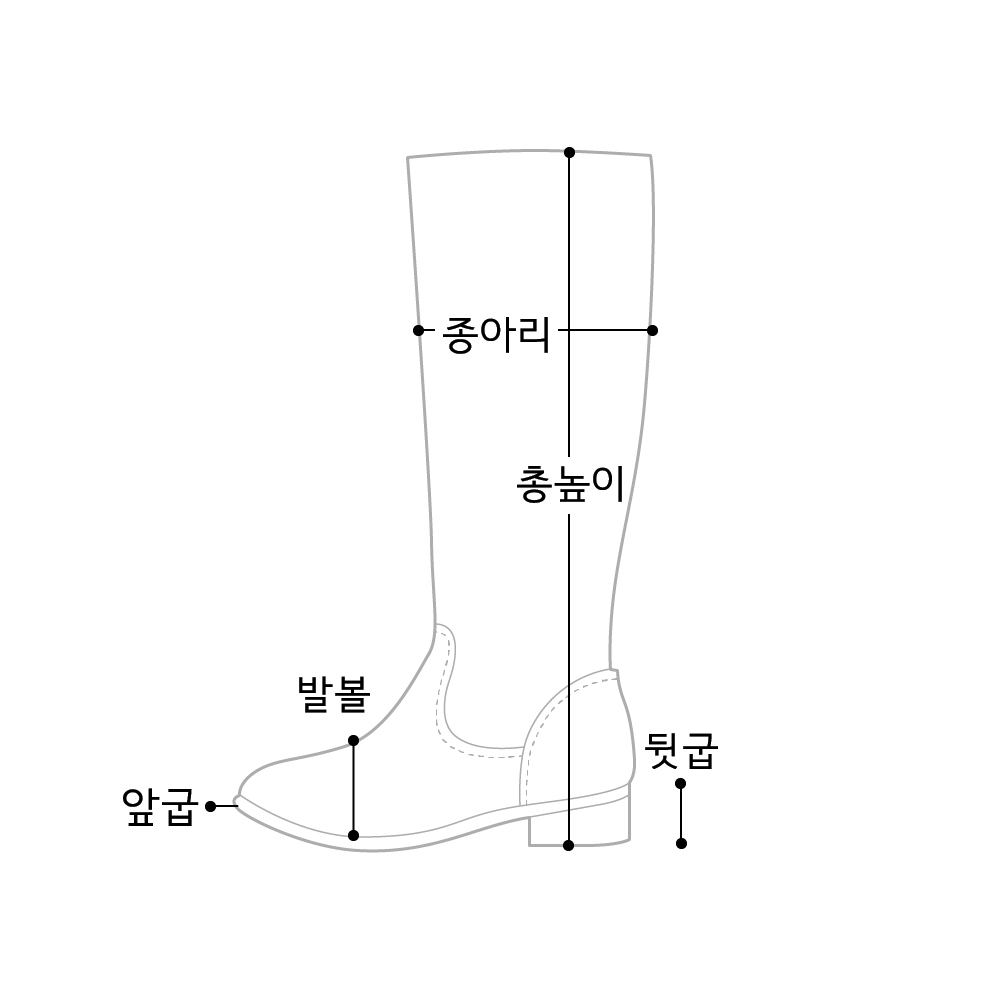
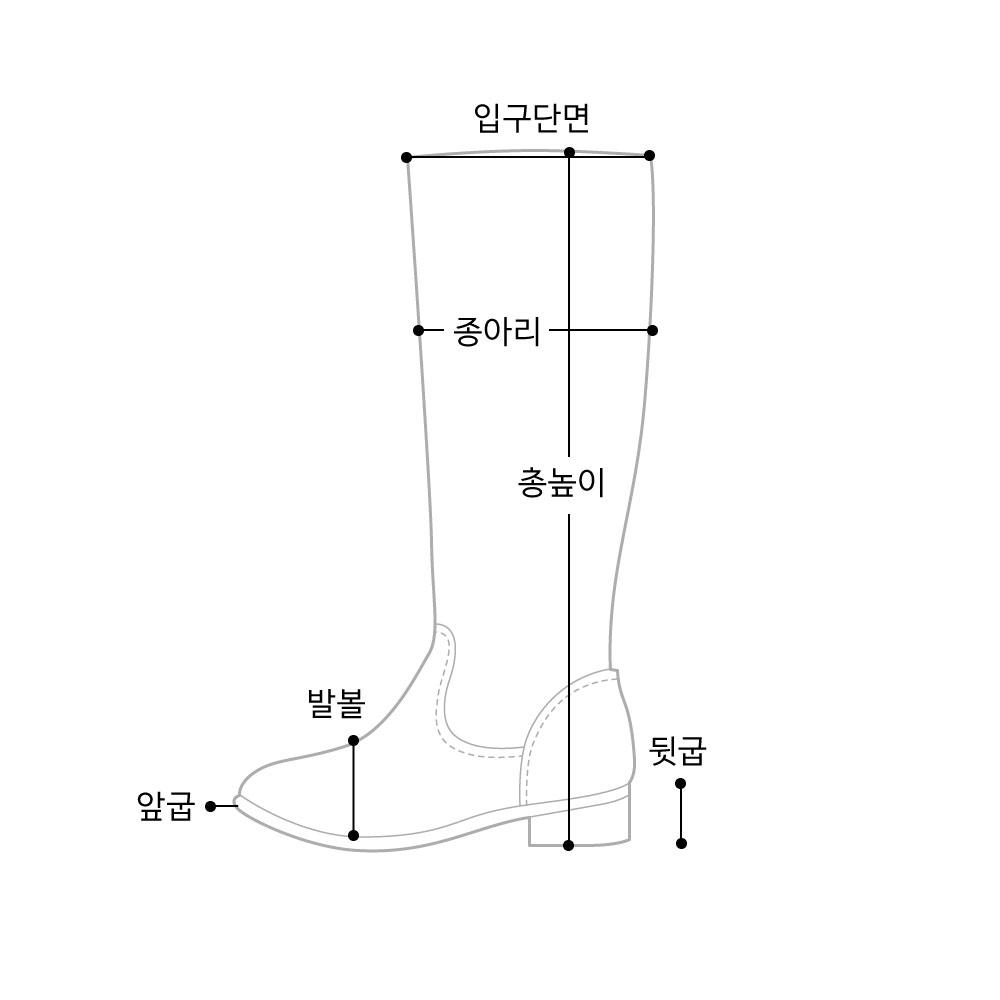
실측표 수정

diff --git a/wholesaler-partner/lib/app/modules/add_product/part2_image_sizetable_options/view/part2_image_sizetable_options_view.dart b/wholesaler-partner/lib/app/modules/add_product/part2_image_sizetable_options/view/part2_image_sizetable_options_view.dart
@@ -1,6 +1,7 @@
 import 'dart:developer';
 
 import 'package:flutter/material.dart';
+import 'package:flutter/services.dart';
 import 'package:get/get.dart';
 import 'package:wholesaler_partner/app/constant/enums.dart';
 import 'package:wholesaler_partner/app/models/add_product/option.dart';
@@ -32,6 +33,24 @@ class AP_Part2View extends GetView<AP_Part2Controller> {
             SizedBox(height: 5),
             // cloth pictures
             _clothPicture(),
+
+//여기에 바지 스커트 특정
+            ClothCategory.PANTS == addProductCtr.category.value.title
+                ? Center(
+                    child: Text(
+                      '*밴딩팬츠의 경우 허리단면 최소-최대로 표기 (ex. 40-60)',
+                      style: MyTextStyles.f11,
+                    ),
+                  )
+                : SizedBox.shrink(),
+
+            ClothCategory.SKIRTS == addProductCtr.category.value.title
+                ? Center(
+                    child: Text(
+                    '*밴딩스커트의 경우 허리단면 최소-최대로 표기 (ex. 40-60)',
+                    style: MyTextStyles.f11,
+                  ))
+                : SizedBox.shrink(),
             _sizeTable(context),
             // 옵션 단가등록
             //_unitPriceCheckbox(),
@@ -246,7 +265,7 @@ class AP_Part2View extends GetView<AP_Part2Controller> {
                       height: 20,
                       width: 20,
                       child: Center(
-                        child: Text('SIZE'),
+                        child: Text('Size'),
                       ),
                     ),
                   ),
@@ -750,9 +769,29 @@ class AP_Part2View extends GetView<AP_Part2Controller> {
               Expanded(
                 child: Container(
                   child: TextField(
+                      onChanged: (value) {
+                        if (value.length > 1 && value.substring(0, 1) == '0') {
+                          print(value.substring(1, value.length));
+                          addProductCtr
+                              .optionsControllers[currentOptionLength - 1]
+                              .text = value.substring(1, value.length);
+                          addProductCtr
+                                  .optionsControllers[currentOptionLength - 1]
+                                  .selection =
+                              TextSelection.fromPosition(TextPosition(
+                                  offset: addProductCtr
+                                      .optionsControllers[
+                                          currentOptionLength - 1]
+                                      .text
+                                      .length));
+                        }
+                      },
                       controller: addProductCtr
                           .optionsControllers[currentOptionLength - 1],
                       keyboardType: TextInputType.number,
+                      // inputFormatters: [
+                      //   FilteringTextInputFormatter.deny(RegExp(r'^0+')),
+                      // ],
                       decoration: InputDecoration(
                           fillColor: MyColors.white,
                           filled: true,

diff --git a/wholesaler-partner/lib/app/modules/add_product/view/widget/add_tag.dart b/wholesaler-partner/lib/app/modules/add_product/view/widget/add_tag.dart
@@ -1,5 +1,6 @@
 import 'package:flutter/material.dart';
 import 'package:get/get.dart';
+import 'package:wholesaler_user/app/widgets/snackbar.dart';
 
 class AddTagField extends StatelessWidget {
   final String? hintText;
@@ -34,6 +35,15 @@ class AddTagField extends StatelessWidget {
                         horizontal: 8.0, vertical: 0.0)),
                 controller: fieldController,
                 onSubmitted: (value) {
+                  for (int k = 0; k < tagList.length; k++) {
+                    if (value == tagList[k]) {
+                      mSnackbar(message: '같은 소재는 입력이 불가능합니다.');
+                      fieldController.clear();
+
+                      return;
+                    }
+                  }
+
                   tagList.add(value);
                   percentList == null
                       ? null
@@ -42,9 +52,10 @@ class AddTagField extends StatelessWidget {
 
                   materialPercentCheck!.value = 0;
                   for (int k = 0; k < percentList!.length; k++) {
-                    materialPercentCheck!.value +=
-                        int.parse(percentList![k].text);
-                    // print(ctr.materialTypePercentControllers[k].text);
+                    if (percentList![k].text.isNotEmpty) {
+                      materialPercentCheck!.value +=
+                          int.parse(percentList![k].text);
+                    }
                   }
                 },
               ),
@@ -66,8 +77,11 @@ class AddTagField extends StatelessWidget {
 
                         materialPercentCheck!.value = 0;
                         for (int k = 0; k < percentList!.length; k++) {
-                          materialPercentCheck!.value +=
-                              int.parse(percentList![k].text);
+                          if (percentList![k].text.isNotEmpty) {
+                            materialPercentCheck!.value +=
+                                int.parse(percentList![k].text);
+                          }
+
                           // print(ctr.materialTypePercentControllers[k].text);
                         }
                       },

diff --git a/wholesaler-partner/lib/app/models/add_product/product_body_size/size_category.dart b/wholesaler-partner/lib/app/models/add_product/product_body_size/size_category.dart
@@ -160,7 +160,8 @@ class SizeCategory {
       SizeChild.front_heel_height,
       SizeChild.back_heel_height,
       SizeChild.foot_width,
-      SizeChild.entrace_circum,
+      SizeChild.entrance_cross_length,
+      // SizeChild.entrace_circum,
       SizeChild.calf_cross_length,
       SizeChild.total_height
     ],
@@ -260,6 +261,7 @@ class SizeCategory {
       SizeChild.chest_cross_length,
       SizeChild.armhole,
       SizeChild.total_length,
+      SizeChild.weight,
     ],
   );
   static SizeCategory TSHIRT = SizeCategory(
@@ -273,7 +275,7 @@ class SizeCategory {
       SizeChild.sleeve_cross_length,
       SizeChild.total_length,
       //SizeChild.lining,
-      SizeChild.weight
+      // SizeChild.weight
     ],
   );
   static SizeCategory SHIRT = SizeCategory(
@@ -287,7 +289,7 @@ class SizeCategory {
       SizeChild.sleeve_cross_length,
       SizeChild.total_length,
       //SizeChild.lining,
-      SizeChild.weight
+      // SizeChild.weight
     ],
   );
   static SizeCategory KNITWEAR = SizeCategory(
@@ -301,7 +303,7 @@ class SizeCategory {
       SizeChild.sleeve_cross_length,
       SizeChild.total_length,
       //SizeChild.lining,
-      SizeChild.weight
+      // SizeChild.weight
     ],
   );
   static SizeCategory MTOM = SizeCategory(
@@ -315,7 +317,7 @@ class SizeCategory {
       SizeChild.sleeve_cross_length,
       SizeChild.total_length,
       //SizeChild.lining,
-      SizeChild.weight
+      // SizeChild.weight
     ],
   );
   static SizeCategory HOODIE = SizeCategory(
@@ -329,7 +331,7 @@ class SizeCategory {
       SizeChild.sleeve_cross_length,
       SizeChild.total_length,
       //SizeChild.lining,
-      SizeChild.weight
+      // SizeChild.weight
     ],
   );
   static SizeCategory BUSTIER = SizeCategory(

diff --git a/wholesaler-partner/lib/app/modules/add_product/view/widget/custom_input.dart b/wholesaler-partner/lib/app/modules/add_product/view/widget/custom_input.dart
@@ -1,4 +1,5 @@
 import 'package:flutter/material.dart';
+import 'package:flutter/services.dart';
 import 'package:get/get.dart';
 import 'package:wholesaler_user/app/constants/colors.dart';
 import 'package:wholesaler_user/app/constants/styles.dart';
@@ -64,6 +65,9 @@ class CustomInput extends GetView<AddProductController> {
       child: SizedBox(
         height: 30,
         child: TextField(
+          inputFormatters: [
+            FilteringTextInputFormatter.deny(RegExp(r'^0+')),
+          ],
           onChanged: onChanged,
           controller: fieldController,
           keyboardType: keyboardType,
